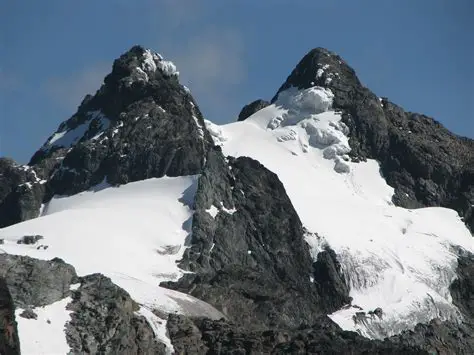
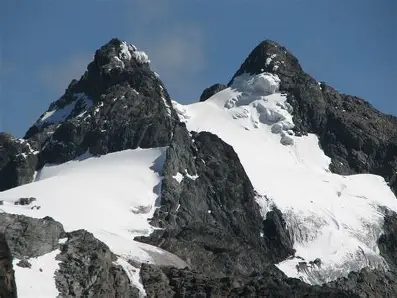
image errors cleared

diff --git a/Ecotourism/scripts/destination.js b/Ecotourism/scripts/destination.js
@@ -1,14 +1,14 @@
-export function renderCards(data, gridElement) {
+
+import { destinations } from '../data/destination.mjs';
+
+
+function renderCards(data, gridElement) {
     if (!gridElement) return;
-    
     gridElement.innerHTML = '';
     
-    // Array Method: forEach
     data.forEach(dest => {
         const card = document.createElement('div');
         card.className = 'dest-card';
-        
-        // Template Literals for dynamic content
         card.innerHTML = `
             <img src="${dest.image}" alt="${dest.name}" loading="lazy">
             <div class="dest-card-content">
@@ -19,34 +19,32 @@ export function renderCards(data, gridElement) {
                     <p>📍 ${dest.location}</p>
                     <p class="price"><strong>${dest.price}</strong></p>
                 </div>
+                <!-- Button has a data-name to identify the trip -->
                 <button class="book-btn" data-name="${dest.name}">Book Now</button>
             </div>
         `;
         gridElement.appendChild(card);
     });
+
+ 
+    attachModalListeners();
 }
 
-// Import from the .mjs and the render module
-import { destinations } from '../data/destination.mjs';
-// import { renderCards } from './modules/render.js';
 
 document.addEventListener('DOMContentLoaded', () => {
     const grid = document.getElementById('dest-grid');
     const filterButtons = document.querySelectorAll('.filter-btn');
 
-    // 1. Initial Render using the imported constant
+   
     renderCards(destinations, grid);
 
-    // 2. Filter Logic (Using Array Method: filter)
+   
     filterButtons.forEach(btn => {
         btn.addEventListener('click', () => {
-            // Remove active class from others, add to this one
             document.querySelector('.filter-btn.active').classList.remove('active');
             btn.classList.add('active');
-
-            const category = btn.getAttribute('data-filter');
             
-            // Filter the imported destinations array
+            const category = btn.getAttribute('data-filter');
             const filteredData = category === 'all' 
                 ? destinations 
                 : destinations.filter(item => item.category === category);
@@ -54,4 +52,40 @@ document.addEventListener('DOMContentLoaded', () => {
             renderCards(filteredData, grid);
         });
     });
+});
+
+
+const modal = document.getElementById('booking-modal');
+const closeModal = document.getElementById('close-modal');
+const modalTitle = document.getElementById('destination-name');
+const form = modal.querySelector('form');
+
+function attachModalListeners() {
+    const bookButtons = document.querySelectorAll('.book-btn');
+    
+    bookButtons.forEach(btn => {
+        btn.addEventListener('click', (e) => {
+            const tripName = e.target.getAttribute('data-name');
+            modalTitle.textContent = tripName;
+            modal.showModal(); 
+        });
+    });
+}
+
+
+closeModal.addEventListener('click', () => {
+    modal.close();
+});
+
+
+modal.addEventListener('click', (e) => {
+    if (e.target === modal) {
+        modal.close();
+    }
+});
+
+
+form.addEventListener('submit', () => {
+   
+    alert(`Thank you! Your booking for ${modalTitle.textContent} has been received. Check your email.`);
 });

diff --git a/Ecotourism/styles/base.css b/Ecotourism/styles/base.css
@@ -24,23 +24,22 @@ body {
     font-family: Arial, sans-serif;
     line-height: 1.6;
     background-color: var(--border);
-
+    overflow-x: hidden;
 }
 
 main {
     padding: 20px;
-    max-width: 1200px;
+    
     margin-top: 80px;
 }
 
 header {
-    margin-left: 10px;
-    margin-right: 10px;
+  
     display: flex;
     justify-content: space-between;
     align-items: center;
     background-color: var(--primary);
-    padding: 15px 5%;
+    padding: 15px 5px;
     box-shadow: 10px 5px 5px var(--text);
     position: relative;
    
@@ -54,7 +53,7 @@ header {
 
 }
 
-/* LOGO */
+
 .logo {
     color: var(--white);
     font-size: 24px;
@@ -114,7 +113,7 @@ nav ul li a:hover {
     position: relative;
     height: 500px;
     overflow: hidden;
-    margin: 20px;
+    /* margin: 20px; */
     border-radius: 15px;
     border: 5px solid var(--ug-black);
   
@@ -125,8 +124,10 @@ nav ul li a:hover {
     width: 100%;
     height: 100%;
     object-fit: cover;
+    
     transition: transform 0.5s ease;
 }
+
 
 .slider img:hover {
     transform: scale(1.05);
@@ -214,7 +215,7 @@ nav ul li a:hover {
     background-color: transparent;
     color: var(--bg-header);
 
-    transform: scale(1.05);
+    transform: scale(1.1);
 }
 
 
@@ -222,7 +223,7 @@ nav ul li a:hover {
 @keyframes fadeInUp {
     from {
         opacity: 0;
-        transform: translateY(20px);
+        transform: translateY(5px);
     }
 
     to {
@@ -237,7 +238,7 @@ nav ul li a:hover {
     }
 
     to {
-        transform: scale(1.15);
+        transform: scale(1.03);
     }
 }
 

diff --git a/Ecotourism/styles/destination.css b/Ecotourism/styles/destination.css
@@ -133,3 +133,56 @@ dialog {
 .modal-wrapper { padding: 30px; width: 400px; }
 #close-modal { float: right; cursor: pointer; border: none; background: none; font-weight: bold; }
 dialog::backdrop { background: rgba(0,0,0,0.7); }
+
+
+/* =========================
+   MODAL DIALOG STYLES
+   ========================= */
+dialog {
+    border: none;
+    border-radius: 12px;
+    box-shadow: 0 15px 40px rgba(0,0,0,0.4);
+    padding: 0;
+    width: 90%;
+    max-width: 500px;
+    background-color: white;
+}
+
+/* The dark background behind the modal */
+dialog::backdrop {
+    background-color: rgba(0, 0, 0, 0.7);
+    backdrop-filter: blur(3px); /* Cool blur effect */
+}
+
+/* Modal Content Wrapper */
+.modal-wrapper {
+    padding: 40px;
+    text-align: center;
+    position: relative;
+}
+
+/* Close "X" Button */
+#close-modal {
+    position: absolute;
+    top: 10px;
+    right: 15px;
+    background: none;
+    border: none;
+    font-size: 1.5rem;
+    cursor: pointer;
+    color: #555;
+    font-weight: bold;
+    transition: 0.3s;
+}
+
+#close-modal:hover {
+    color: red;
+    transform: scale(1.2);
+}
+
+/* Input Styling inside Modal */
+dialog input {
+    border: 1px solid #ccc;
+    border-radius: 5px;
+    background: #f9f9f9;
+}

diff --git a/Ecotourism/discover.html b/Ecotourism/discover.html
@@ -27,6 +27,7 @@
     <meta property="og:type" content="website" />
 
     <script src="scripts/body.js" defer></script>
+    <script src="scripts/weather.js" defer></script>
     <script src="scripts/destination.js" defer></script>
     <script src="scripts/navigation.js" defer></script>
     <link rel="stylesheet" href="styles/base.css">
@@ -61,7 +62,7 @@
         <section class="hero-container">
 
 
-            <img src="images/forest.jpg" alt="discover the nature" class="hero-img">
+            <img src="images/walking.webp" alt="discover the nature" class="hero-img">
 
 
             <div class="hero-text">
@@ -82,9 +83,9 @@
             </p>
 
             <div class="discover-gallery">
-                <img src="images/mountain.jpg" alt="Mountain Adventure">
-                <img src="images/lake.webp" alt="Peaceful Lake">
-                <img src="images/pexel.jpg" alt="Local Village Experience">
+                <img src="images/peak mtn.webp" alt="Mountain Adventure">
+                <img src="images/lake bunyonyi.webp" alt="Peaceful Lake">
+                <img src="images/life style.webp" alt="Local Village Experience">
             </div>
 
             <p>

diff --git a/Ecotourism/scripts/body.js b/Ecotourism/scripts/body.js
@@ -6,7 +6,6 @@ async function fetchImages() {
         const response = await fetch('data/slider.json');
         const data = await response.json();
         
-        // We call the next functions here inside the "try"
         displayImage(data);
         showSlides(); 
     } catch (error) {
